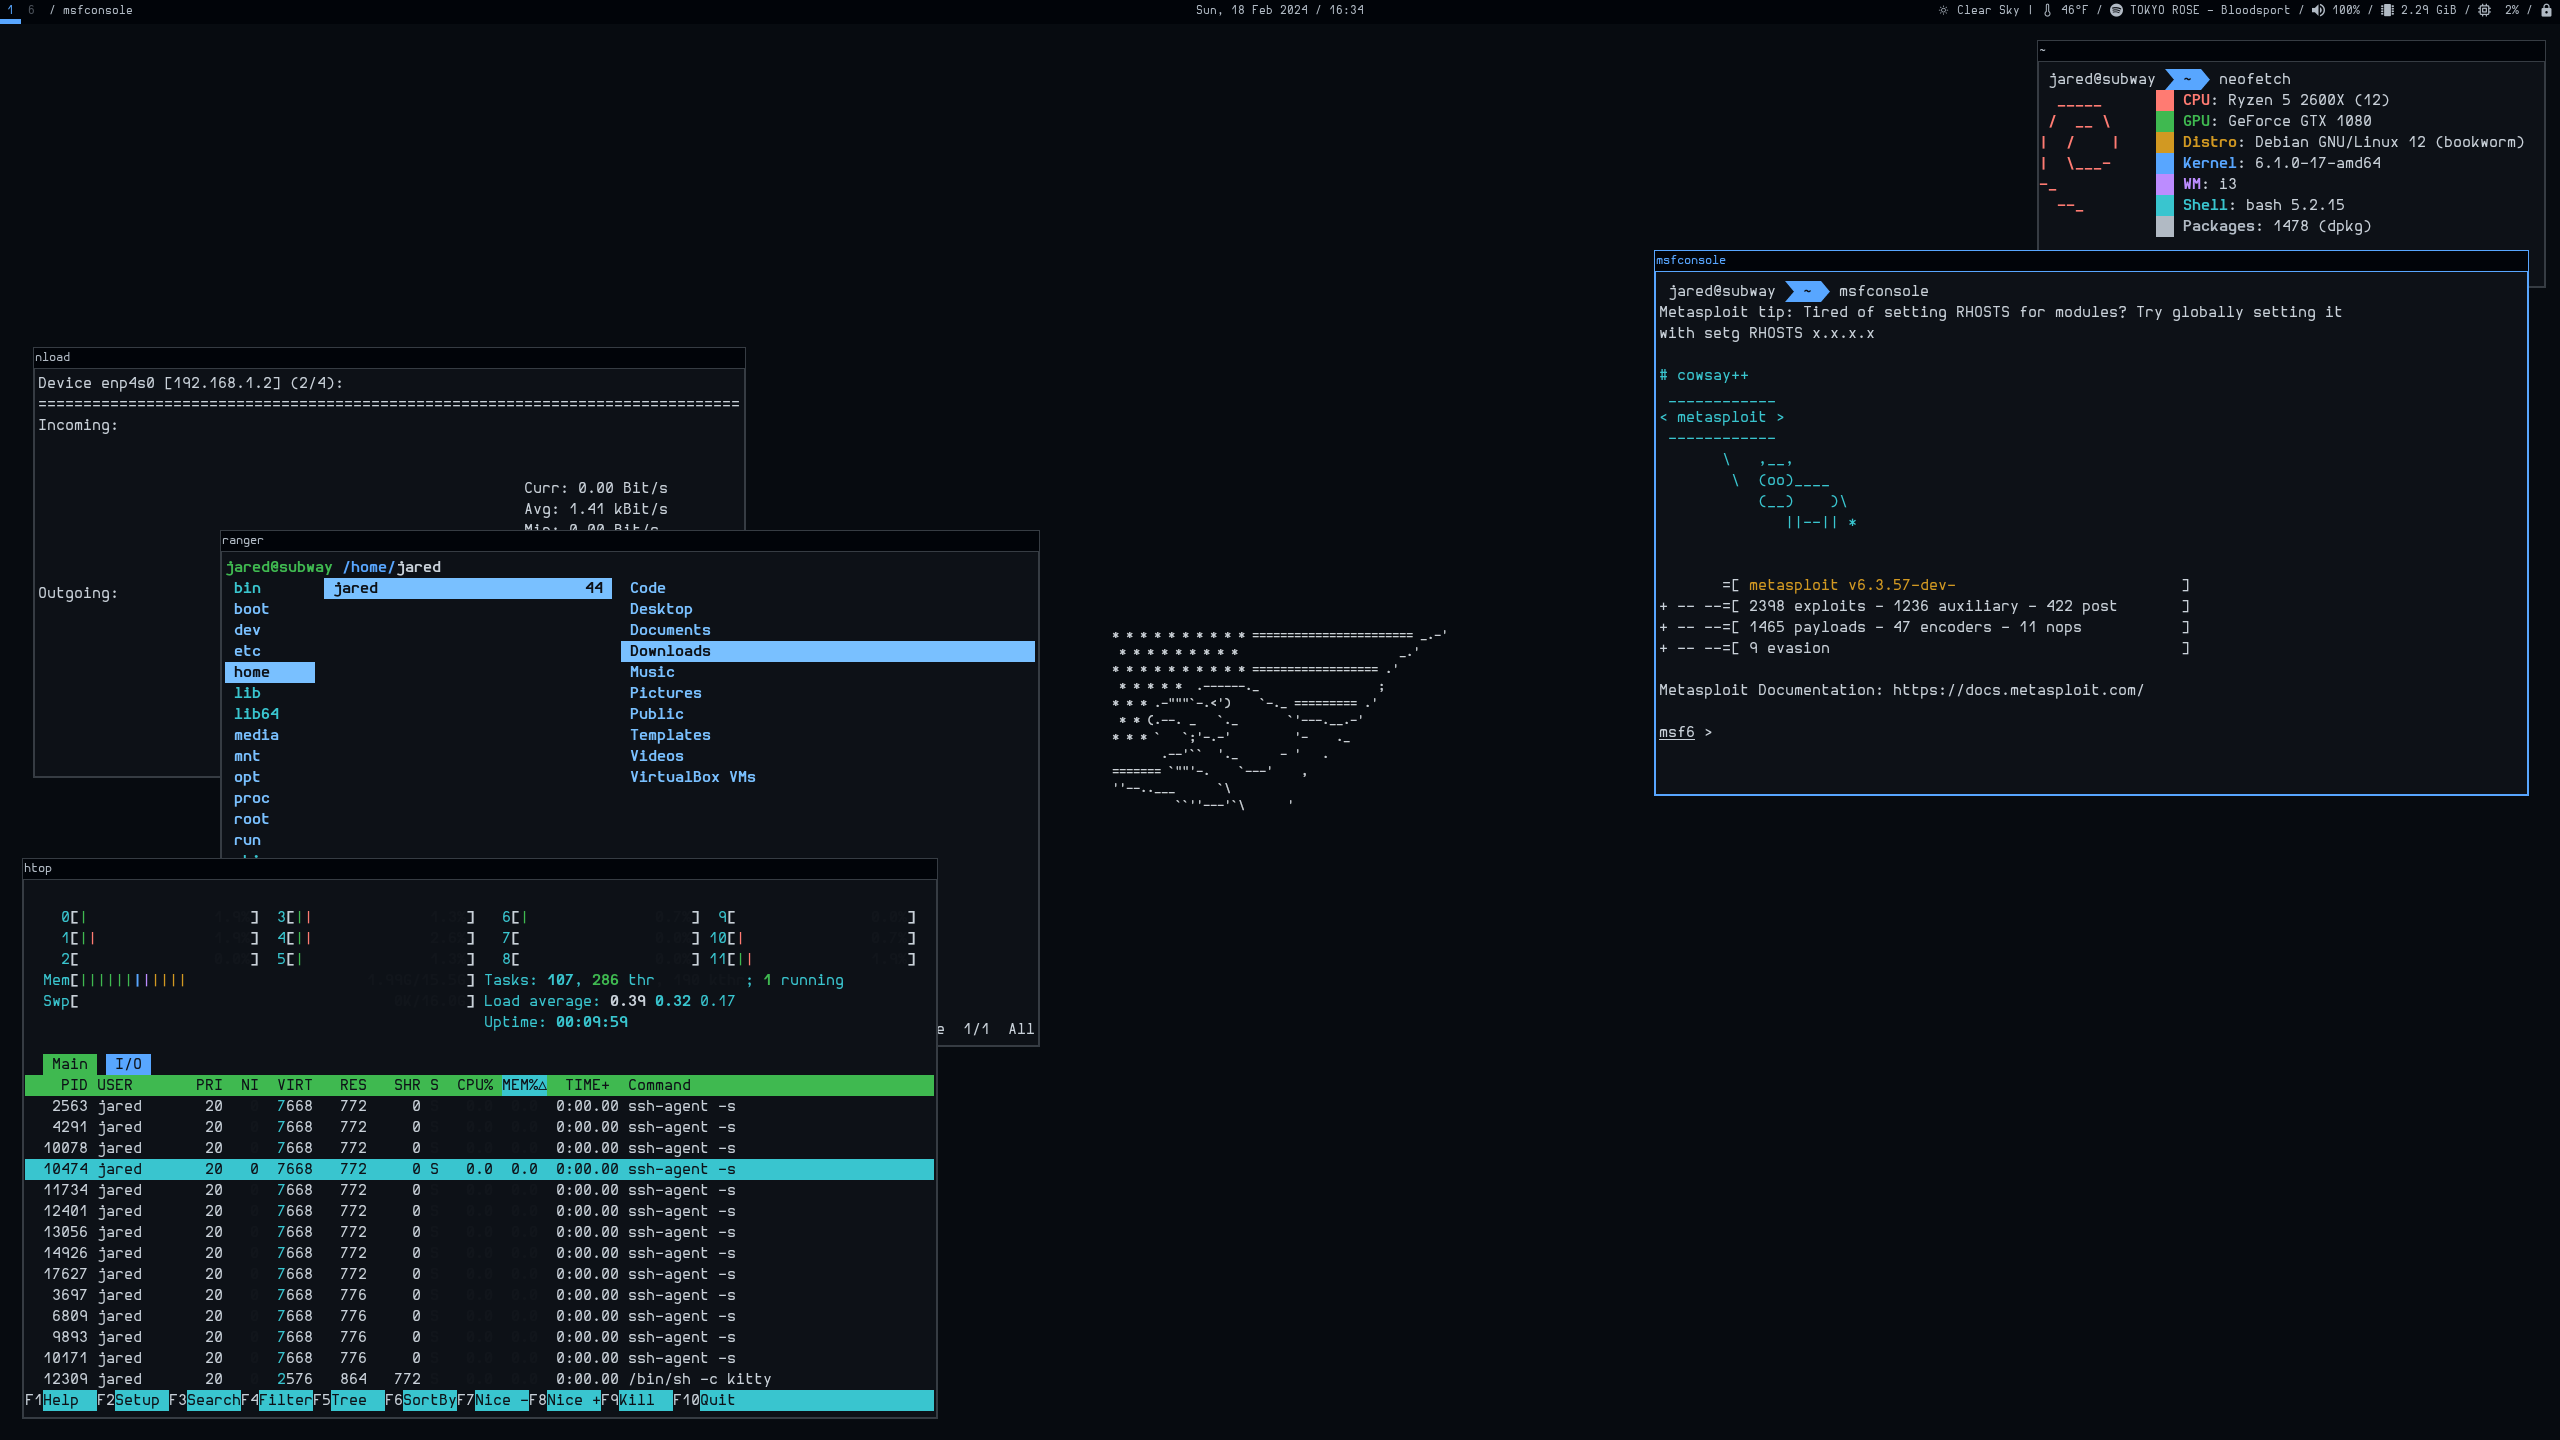
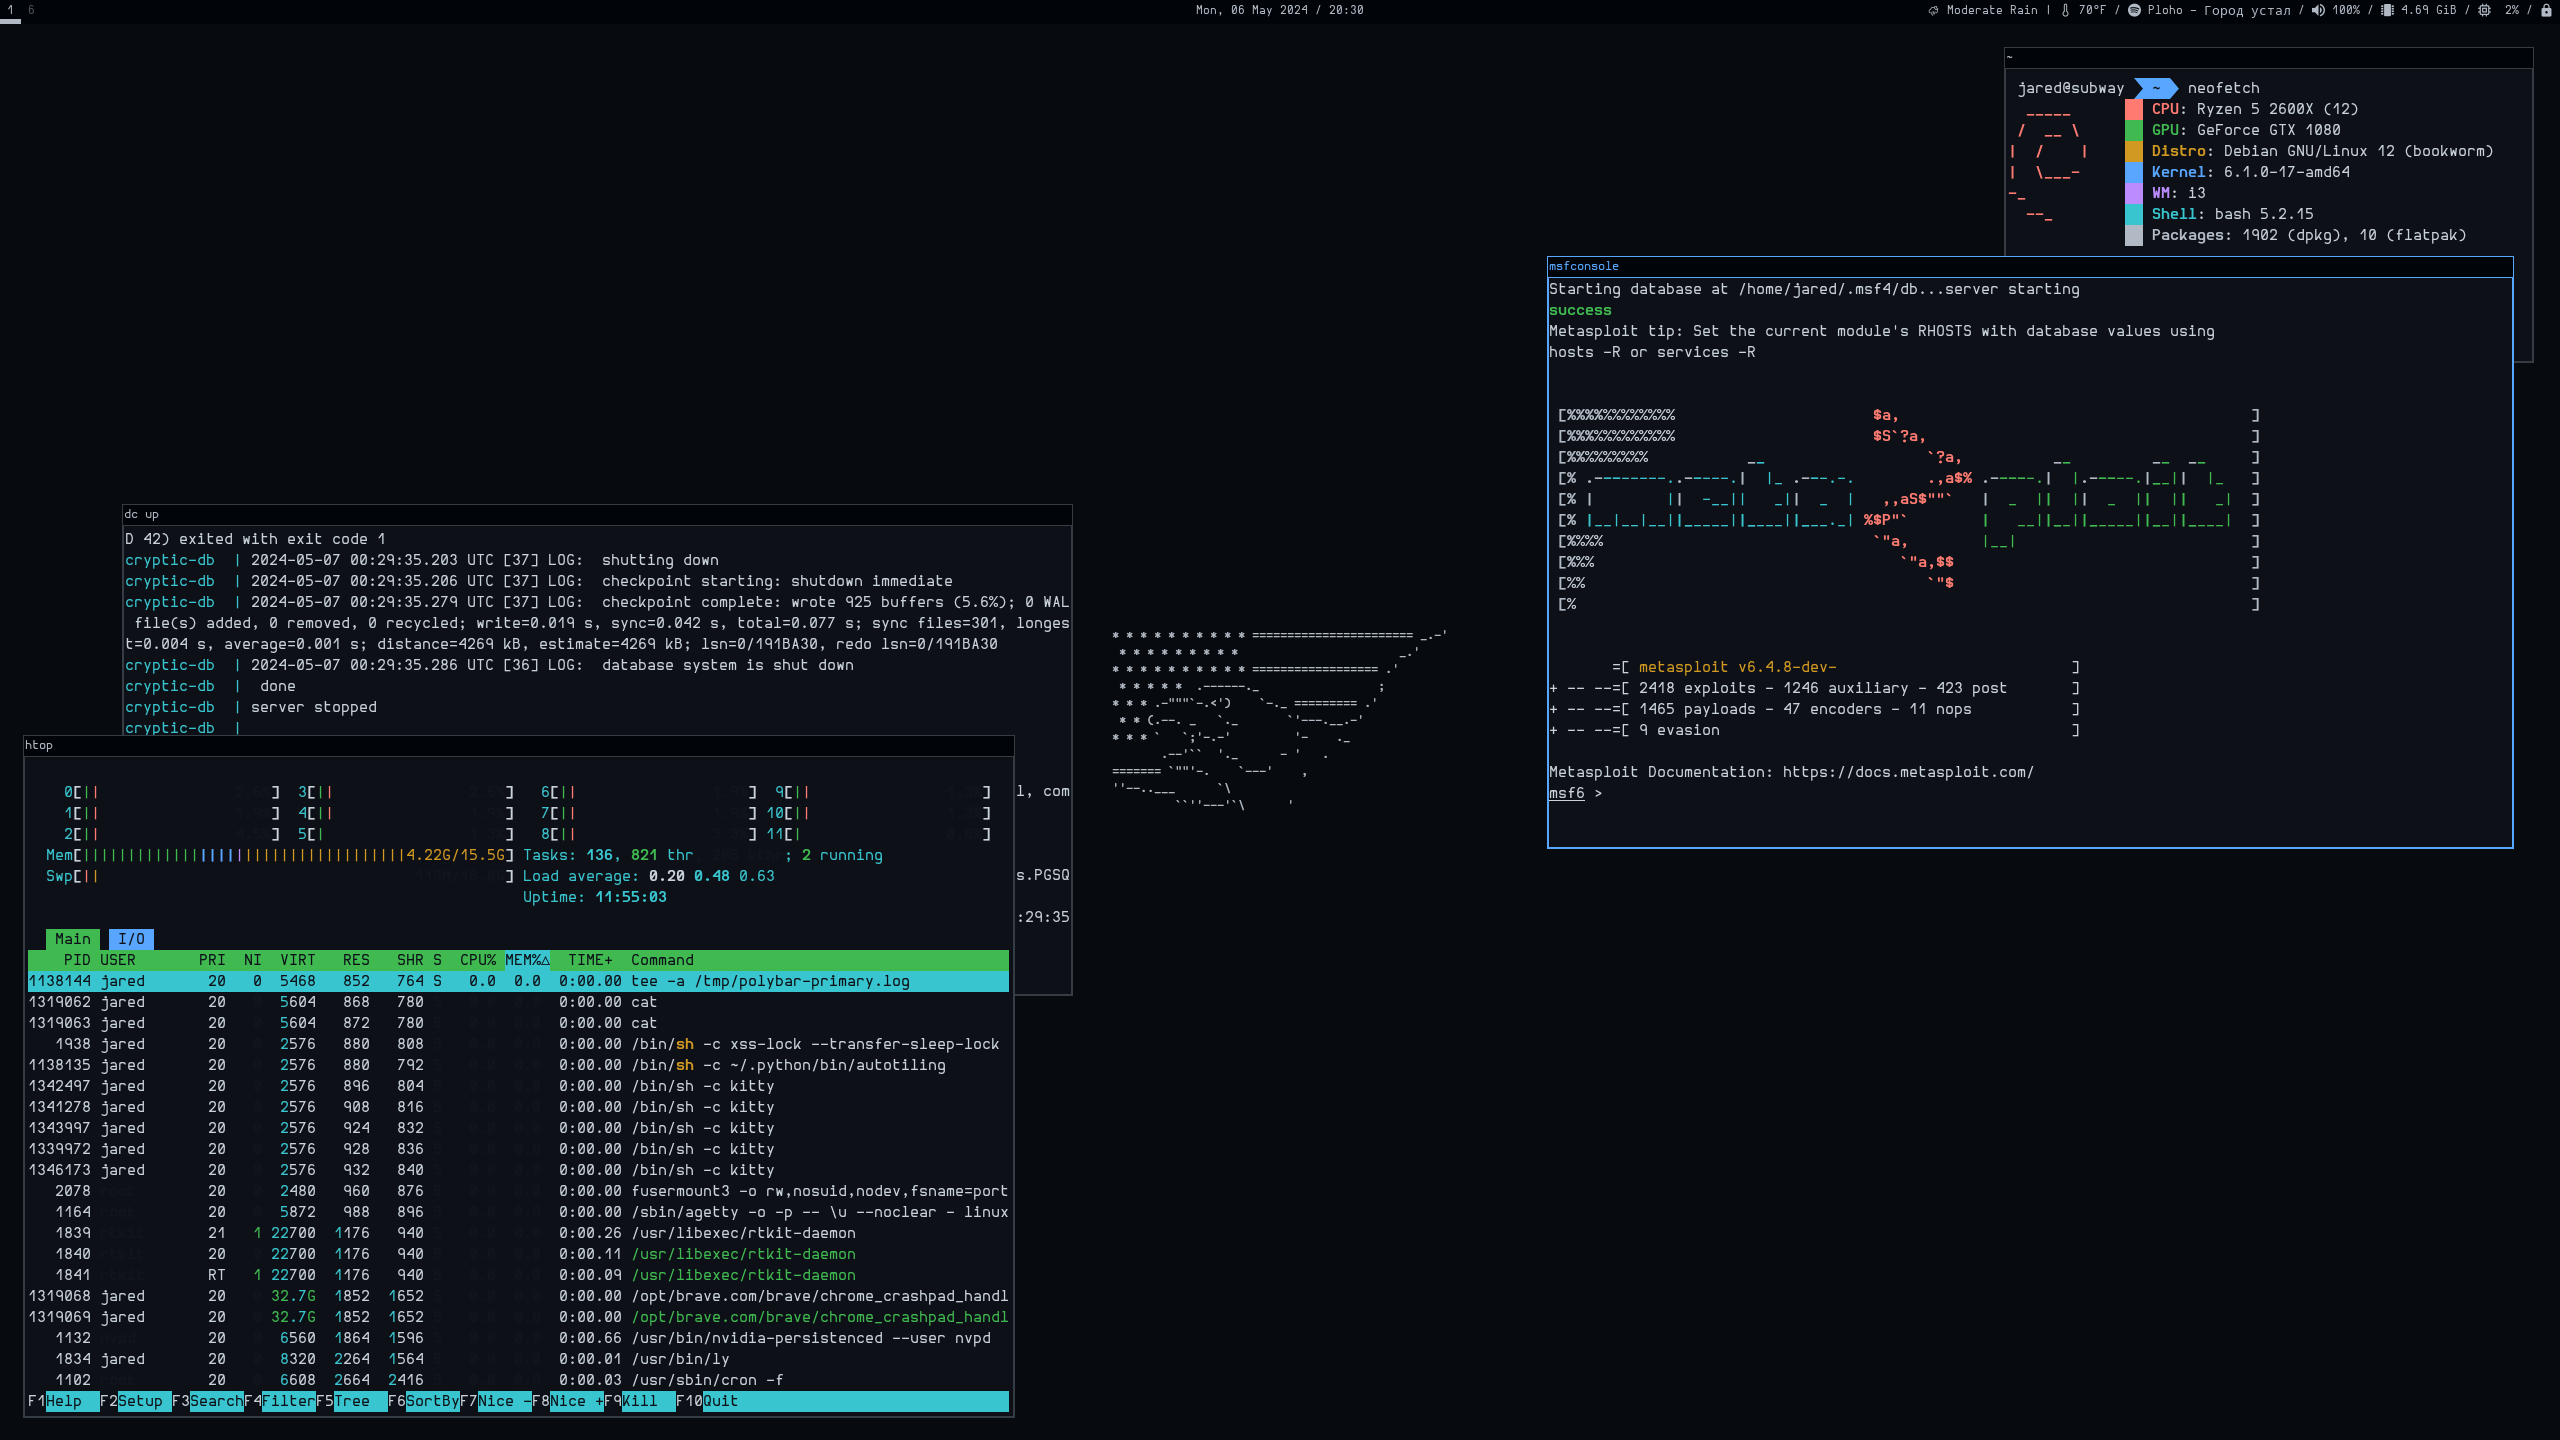
add updated screenshots

diff --git a/README.md b/README.md
@@ -1,9 +1,9 @@
 # sblmnl's dotfiles
 
-|                                           |                                           |                                     |
-|-------------------------------------------|-------------------------------------------|-------------------------------------|
-| ![rose-pine](screenshots/rose-pine.png)   | ![cyberpunk](screenshots/cyberpunk.png)   | ![gruvbox](screenshots/gruvbox.png) |
-| ![everforest](screenshots/everforest.png) | ![catppuccin](screenshots/catppuccin.png) |                                     |
+|                                             |                                           |                                           |
+|---------------------------------------------|-------------------------------------------|-------------------------------------------|
+| ![github-dark](screenshots/github-dark.png) | ![rose-pine](screenshots/rose-pine.png)   | ![cyberpunk](screenshots/cyberpunk.png)   |
+| ![gruvbox](screenshots/gruvbox.png)         | ![everforest](screenshots/everforest.png) | ![catppuccin](screenshots/catppuccin.png) |
 
 Branch: [`debian-bookworm_i3`](https://github.com/sblmnl/dotfiles/tree/debian-bookworm_i3)
 
